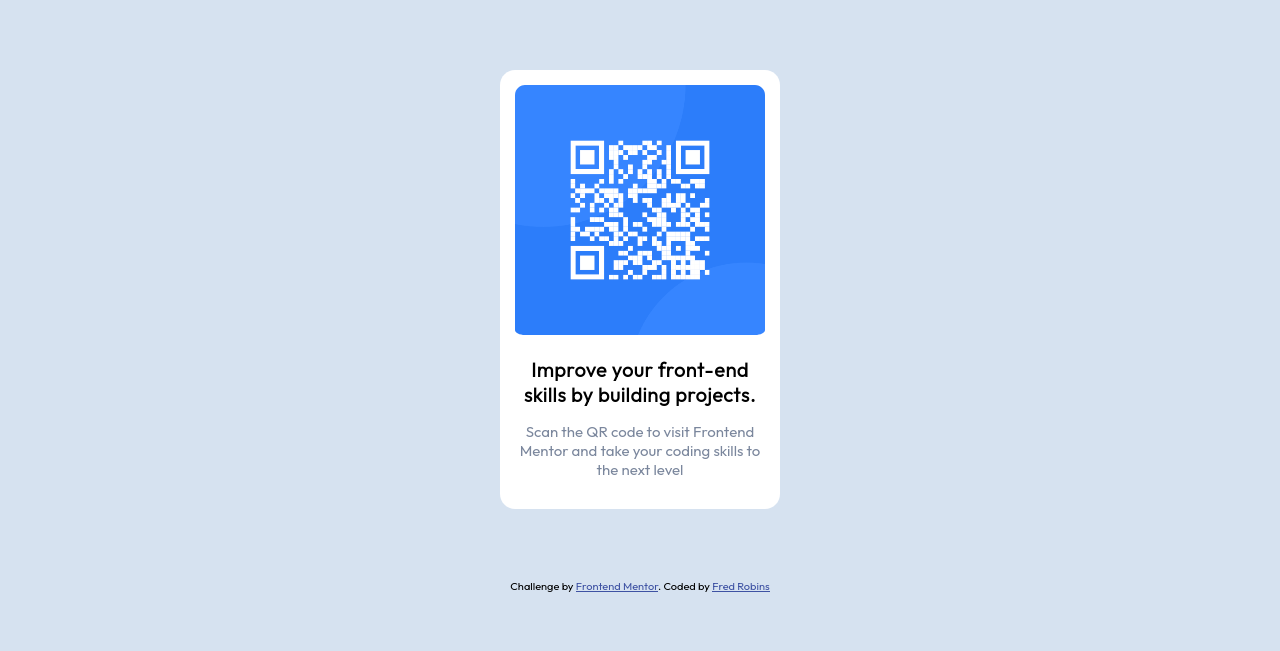
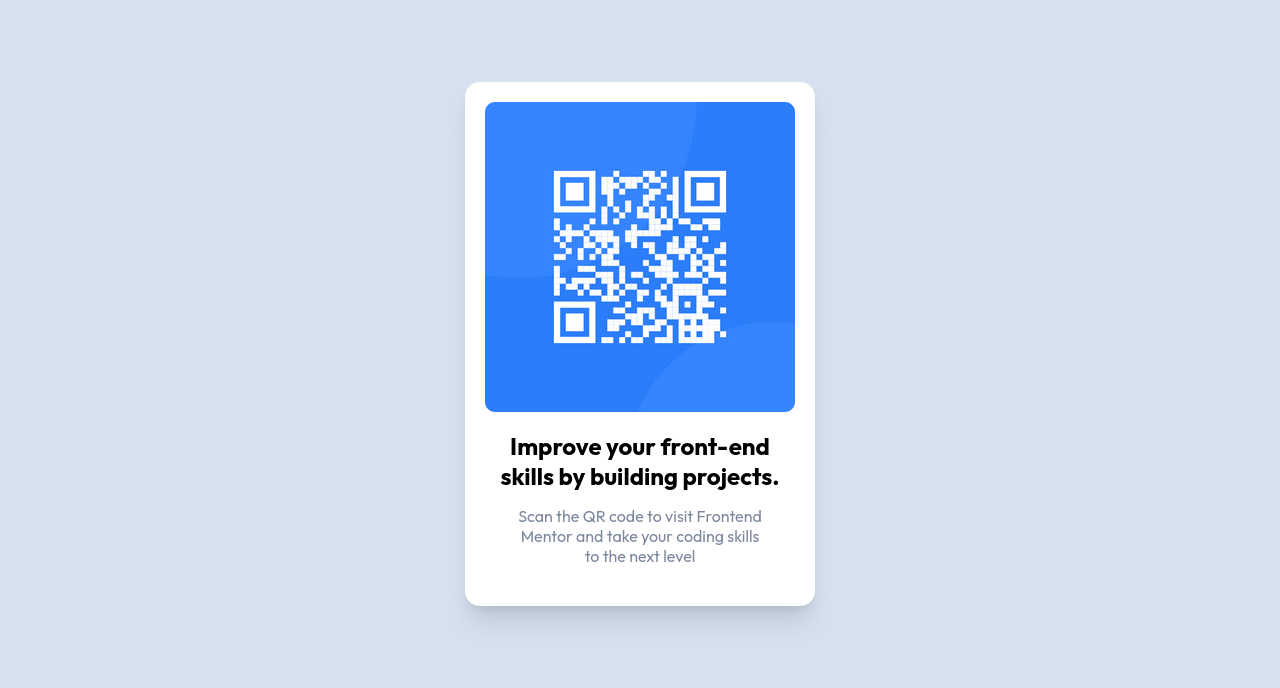
Update component design

Changed region(s): [[0.3438, 0.0922, 0.6562, 0.9217]]

diff --git a/style.css b/style.css
@@ -1,37 +1,51 @@
+@import url('https://fonts.googleapis.com/css2?family=Outfit:wght@400;700&display=swap');
+
+* {
+    margin: 0;
+    padding: 0;
+    box-sizing: border-box;
+}
+
+html {
+    height: 100%;
+}
+
 body {
     background: hsl(212, 45%, 89%);
-    background-attachment: fixed;
-    background-position: center;
-    font-family: 'Outfit', sans-serif;
-    
+    font-family: 'Outfit', sans-serif;  
+    text-align: center;
+    min-height: 100%;
+    display: flex;
+    justify-content: center;
+    align-items: center;
+    font-size: 1rem;
 }
-.flex-container {
+
+main {
     background-color: hsl(0, 0%, 100%);
-    max-width: 250px;
-    padding: 15px;
-    border-radius: 15px; 
-    margin: 70px auto;
+    padding: 20px;
+    max-width: 350px;
+    border-radius: 15px;
+    box-shadow: 0 20px 25px -5px rgb(0 0 0 / 0.1), 0 8px 10px -6px rgb(0 0 0 / 0.1);
+
 }
 
 img {
     max-width: 100%;
     border-radius: 10px;
-    padding-bottom: 5px;
 }
 
 h1 {
     font-weight: 700;
-    font-size: 20px;
+    font-size: 1.5rem;
+    margin: 15px 0;
 }
 
 p {
     font-weight: 400;
-    font-size: 15px;
     color: hsl(220, 15%, 55%);
-}
-
-h1, p {
-    text-align: center;
+    margin-bottom: 20px;
+    padding: 0 30px;
 }
 
 .attribution { font-size: 11px; text-align: center; }

diff --git a/index.html b/index.html
@@ -9,17 +9,17 @@
   <title>Frontend Mentor | QR code component</title>
 </head>
 <body>
-     <div class="flex-container">
+     <main>
         
           <img src="images/image-qr-code.png" alt="image-qr-code">
           <h1>Improve your front-end skills by building projects.</h1>
           <p>Scan the QR code to visit Frontend Mentor and take your coding skills to the next level</p>
       
-      </div>
+      </main>
     
- <div class="attribution">
+ <!-- <div class="attribution">
     Challenge by <a href="https://www.frontendmentor.io?ref=challenge" target="_blank">Frontend Mentor</a>. 
     Coded by <a href="#">Fred Robins</a>
-  </div>
+  </div> -->
 </body>
 </html>
